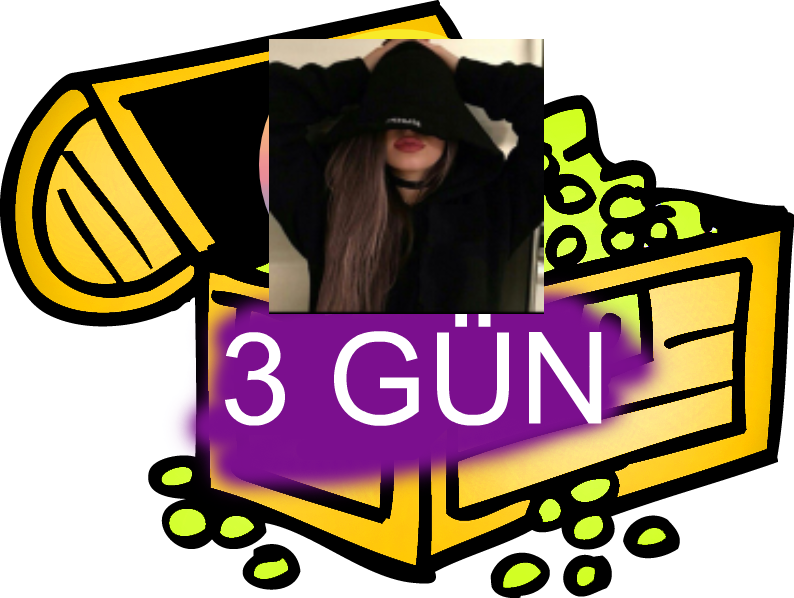
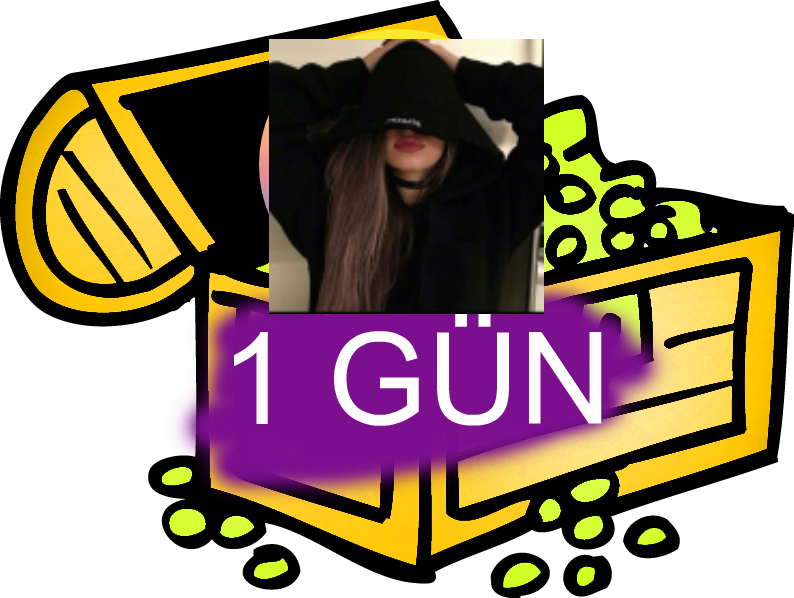
🎻🍨 Checkpoint ./package.json:5472946/4316 ./komutlar/gold-p-topaz.js:5472946/572 ./komutlar/gold-p-yakut.js:5472946/1346 ./komutlar/gold-p-garnet.js:5472946/1359

Changed region(s): [[0.272, 0.5418, 0.3627, 0.7224]]

diff --git a/komutlar/gold-p-yakut.js b/komutlar/gold-p-yakut.js
@@ -1,4 +1,5 @@
 const Discord = require('discord.js');
+const Jimp = require("jimp")
 const db = require('quick.db')
 const fs = require("fs")
 const ms = require("ms")
@@ -11,13 +12,32 @@ let kod31 = "";
   for(var k = 0; k < 1; k++) {
     kod31 = (kod31 + kod.charAt(Math.floor(Math.random() * kod.length)));
   }
- 
- db.add(`goldsure_{message.author.id}`, kod31)
- return message.channel.send(kod31)
-    
-  }
+ const kod32 = require("useful-tools").hesapla(`${db.fetch(`goldpuan_${message.author.id}`)}-5000`)
+ db.add(`goldsure_${message.author.id}`, kod31)
+ db.set(`goldpuan_${message.author.id}`, kod32)
+    var user = message.author; 
   
-  return message.reply("Puanınız Yetersizdir.")
+  Jimp.read(`https://cdn.discordapp.com/attachments/649581228835602432/650052923728068628/unknown.png`, async(err, image) => {
+    await image.resize(794, 598)
+        var font = await Jimp.loadFont(Jimp.FONT_SANS_128_WHITE);
+        await image.print(font, 220, 309, kod31 + " GÜN");
+    Jimp.read(user.avatarURL, async(err, avatar) => {
+        await avatar.resize(275, 275) 
+      await image.composite(avatar, 269, 39).write(`./resimler/gold/gold-${message.author.id}.png`);
+        setTimeout(function() {
+            message.reply(`Bravo! **Yakut Kasadan! (${kod31})** Gün Gold Üye Kazandın Azim İle Yapamıyacağın Pek Birşey Yok Sanırım Gold Üyeni Verdim Artık Kullanabilirsin Hayırlı Olsun.`)
+            return message.channel.send(new Discord.Attachment(`./resimler/gold/gold-${message.author.id}.png`));
+        }, 1000);
+      });
+    return
+    });
+
+
+    
+  } else {
+  return message.reply("Puanınız Yetersizdir.")  
+  }
+ 
 }
 
 module.exports.conf = {

diff --git a/komutlar/gold-p-garnet.js b/komutlar/gold-p-garnet.js
@@ -2,6 +2,7 @@ const Discord = require('discord.js');
 const db = require('quick.db')
 const fs = require("fs")
 const ms = require("ms")
+const Jimp = require("jimp")
 exports.run = async (client, message,args) => {
 
    
@@ -10,12 +11,31 @@ let kod31 = "";
   kod31 = (kod31 + Math.floor(Math.random() * 46));
   
  
- db.add(`goldsure_{message.author.id}`, kod31)
- return message.channel.send(kod31)
-    
-  }
+ const kod32 = require("useful-tools").hesapla(`${db.fetch(`goldpuan_${message.author.id}`)}-5000`)
+ db.add(`goldsure_${message.author.id}`, kod31)
+ db.set(`goldpuan_${message.author.id}`, kod32)
+    var user = message.author; 
   
-  return message.reply("Puanınız Yetersizdir.")
+  Jimp.read(`https://cdn.discordapp.com/attachments/649581228835602432/650052923728068628/unknown.png`, async(err, image) => {
+    await image.resize(794, 598)
+        var font = await Jimp.loadFont(Jimp.FONT_SANS_128_WHITE);
+        await image.print(font, 220, 309, kod31 + " GÜN");
+    Jimp.read(user.avatarURL, async(err, avatar) => {
+        await avatar.resize(275, 275) 
+      await image.composite(avatar, 269, 39).write(`./resimler/gold/gold-${message.author.id}.png`);
+        setTimeout(function() {
+            message.reply(`Bravo! **Garnet Kasadan! (${kod31})** Gün Gold Üye Kazandın Azim İle Yapamıyacağın Pek Birşey Yok Sanırım Gold Üyeni Verdim Artık Kullanabilirsin Hayırlı Olsun.`)
+            return message.channel.send(new Discord.Attachment(`./resimler/gold/gold-${message.author.id}.png`));
+        }, 1000);
+      });
+    return
+    });
+
+
+    
+  } else {
+  return message.reply("Puanınız Yetersizdir.")  
+  }
 }
 
 module.exports.conf = {

diff --git a/komutlar/gold-p-topaz.js b/komutlar/gold-p-topaz.js
@@ -13,10 +13,10 @@ let kod31 = "";
   for(var k = 0; k < 1; k++) {
     kod31 = (kod31 + kod.charAt(Math.floor(Math.random() * kod.length)));
   }
- 
- db.add(`goldsure_{message.author.id}`, kod31)
- db.set(`goldpuan_{message.author.id}`, db.fetch(`goldpuan_${message.author.id}`) - 5000)
- var user = message.author; 
+ const kod32 = require("useful-tools").hesapla(`${db.fetch(`goldpuan_${message.author.id}`)}-5000`)
+ db.add(`goldsure_${message.author.id}`, kod31)
+ db.set(`goldpuan_${message.author.id}`, kod32)
+    var user = message.author; 
   
   Jimp.read(`https://cdn.discordapp.com/attachments/649581228835602432/650052923728068628/unknown.png`, async(err, image) => {
     await image.resize(794, 598)
